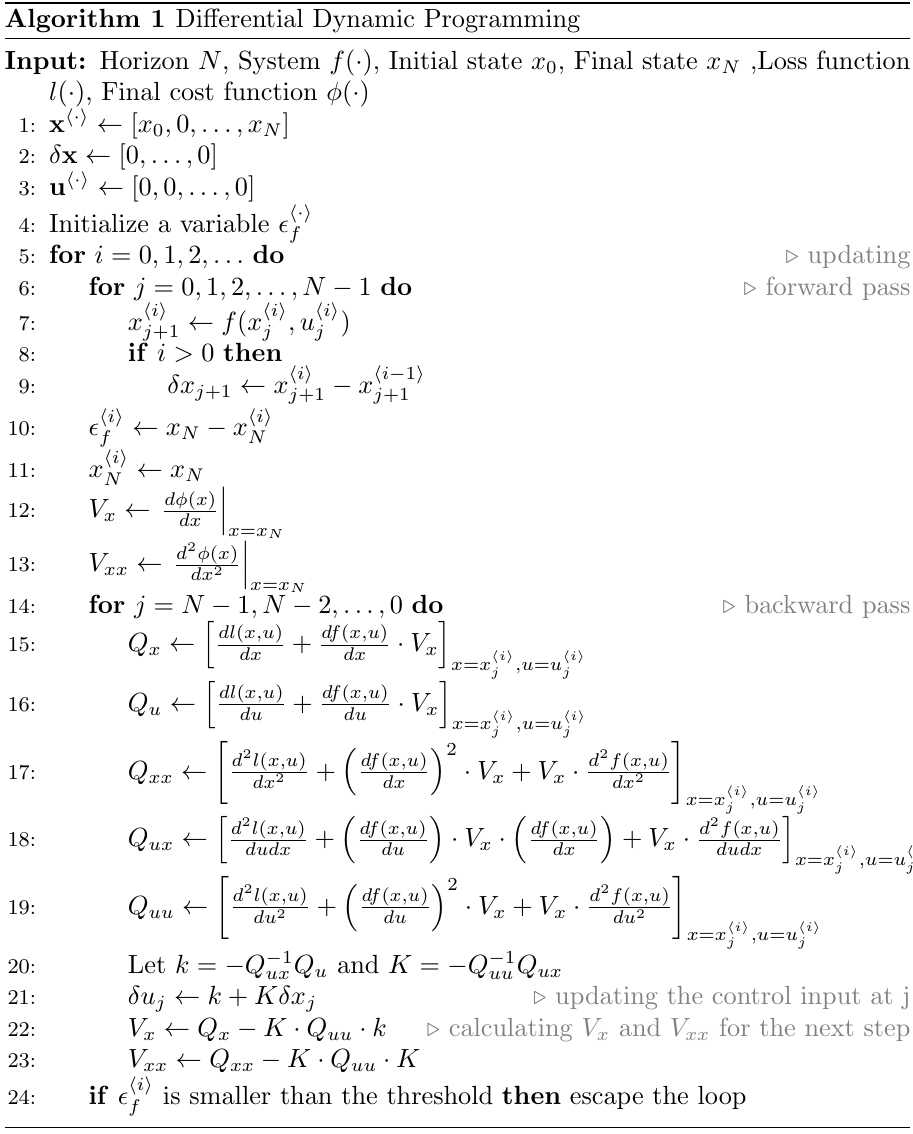
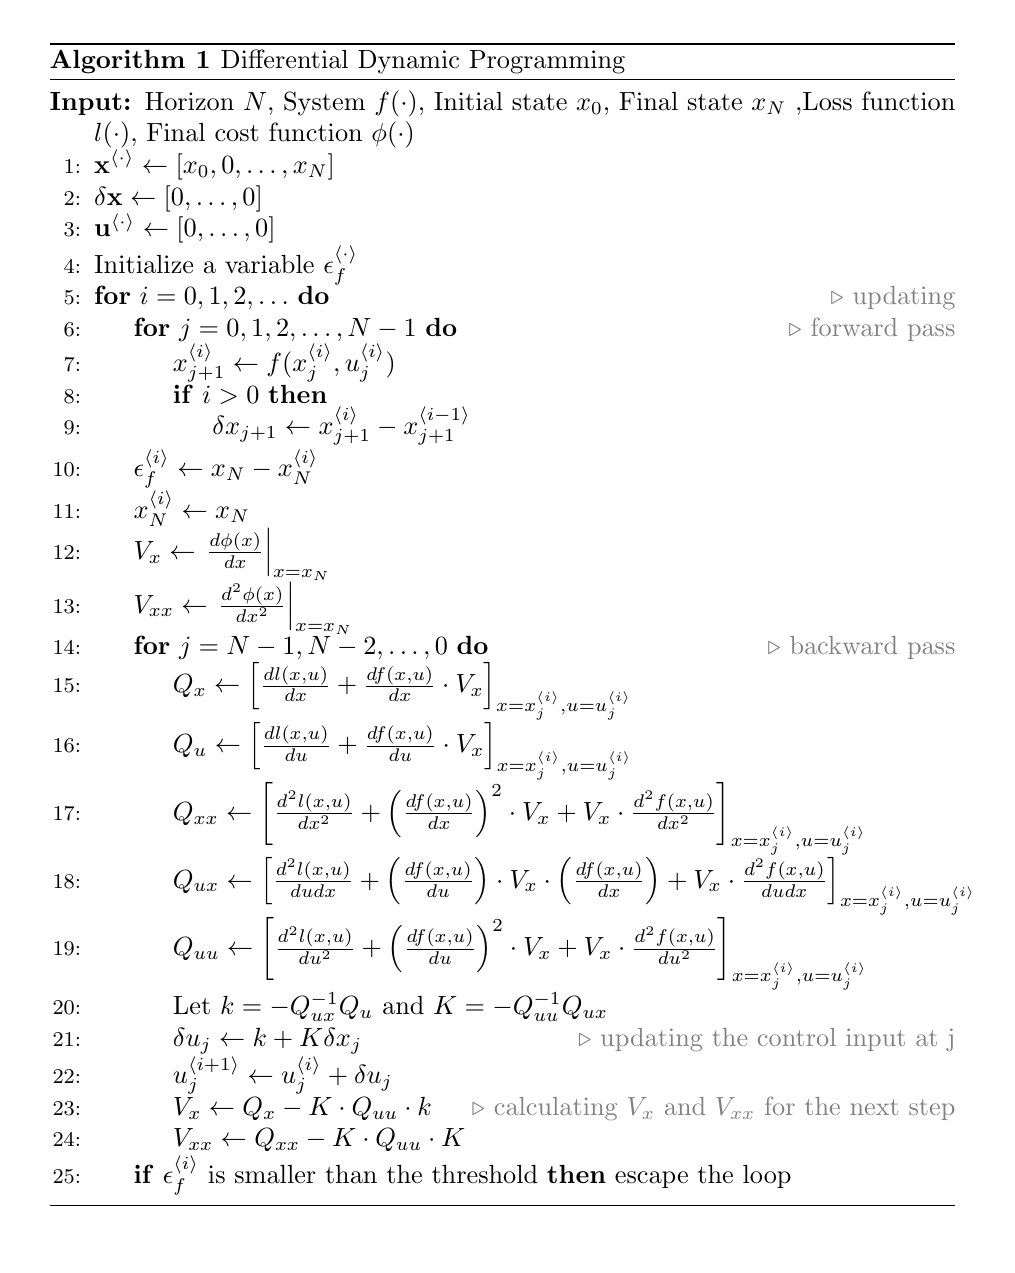
complete pseudocode (maybe)

diff --git a/pseudo.tex b/pseudo.tex
@@ -29,7 +29,7 @@
 \Require{Horizon \(N\), System $f(\cdot)$, Initial state $x_0$, Final state $x_N$ ,Loss function $l(\cdot)$, Final cost function $\phi(\cdot)$}
 \State $\mathbf{x}^{\langle \cdot \rangle}\leftarrow [x_0,0,\ldots,x_N]$
 \State $\delta\mathbf{x}\leftarrow [0,\ldots,0]$
-\State $\mathbf{u}^{\langle \cdot \rangle}\leftarrow [0,0,\ldots,0]$
+\State $\mathbf{u}^{\langle \cdot \rangle}\leftarrow [0,\ldots,0]$
 \State Initialize a variable $\epsilon_f^{\langle \cdot \rangle}$
 \For {$i = 0,1,2,\ldots$}\textcolor{gray}{\Comment{updating}}
 \For {$j = 0,1,2,\ldots,N-1$}\textcolor{gray}{\Comment{forward pass}}
@@ -50,6 +50,7 @@
 \State $Q_{uu} \leftarrow \left[\frac{d^2l(x,u)}{du^2}+\left(\frac{df(x,u)}{du}\right)^2\cdot V_x + V_x \cdot \frac{d^2f(x,u)}{du^2}\right]_{x=x_j^{\langle i \rangle},u=u_j^{\langle i \rangle}}$
 \State Let $k=-Q_{ux}^{-1}Q_{u}$ and $K=-Q_{uu}^{-1}Q_{ux}$
 \State $\delta u_j \leftarrow k+K\delta x_j$\textcolor{gray}{\Comment{updating the control input at j}}
+\State $ u_j^{\langle i+1\rangle} \leftarrow u_j^{\langle i\rangle} + \delta u_j$
 \State $V_x \leftarrow Q_x-K\cdot Q_{uu}\cdot k$\textcolor{gray}{\Comment{calculating $V_x$ and $V_{xx}$ for the next step}}
 \State $V_{xx} \leftarrow Q_{xx}-K\cdot Q_{uu}\cdot K$
 \EndFor
